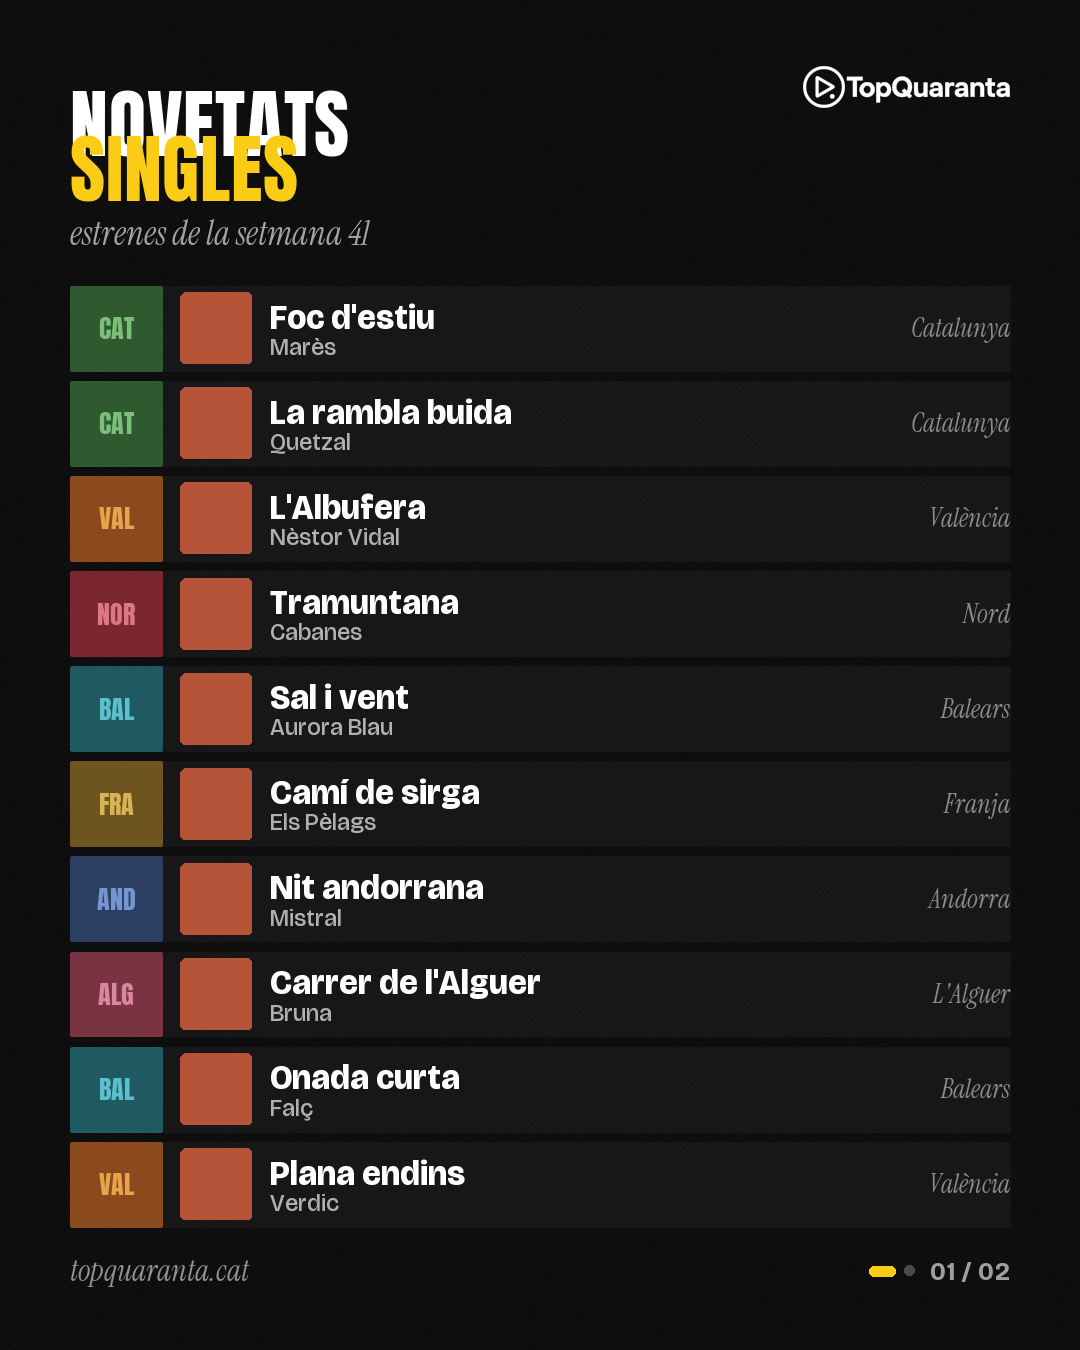
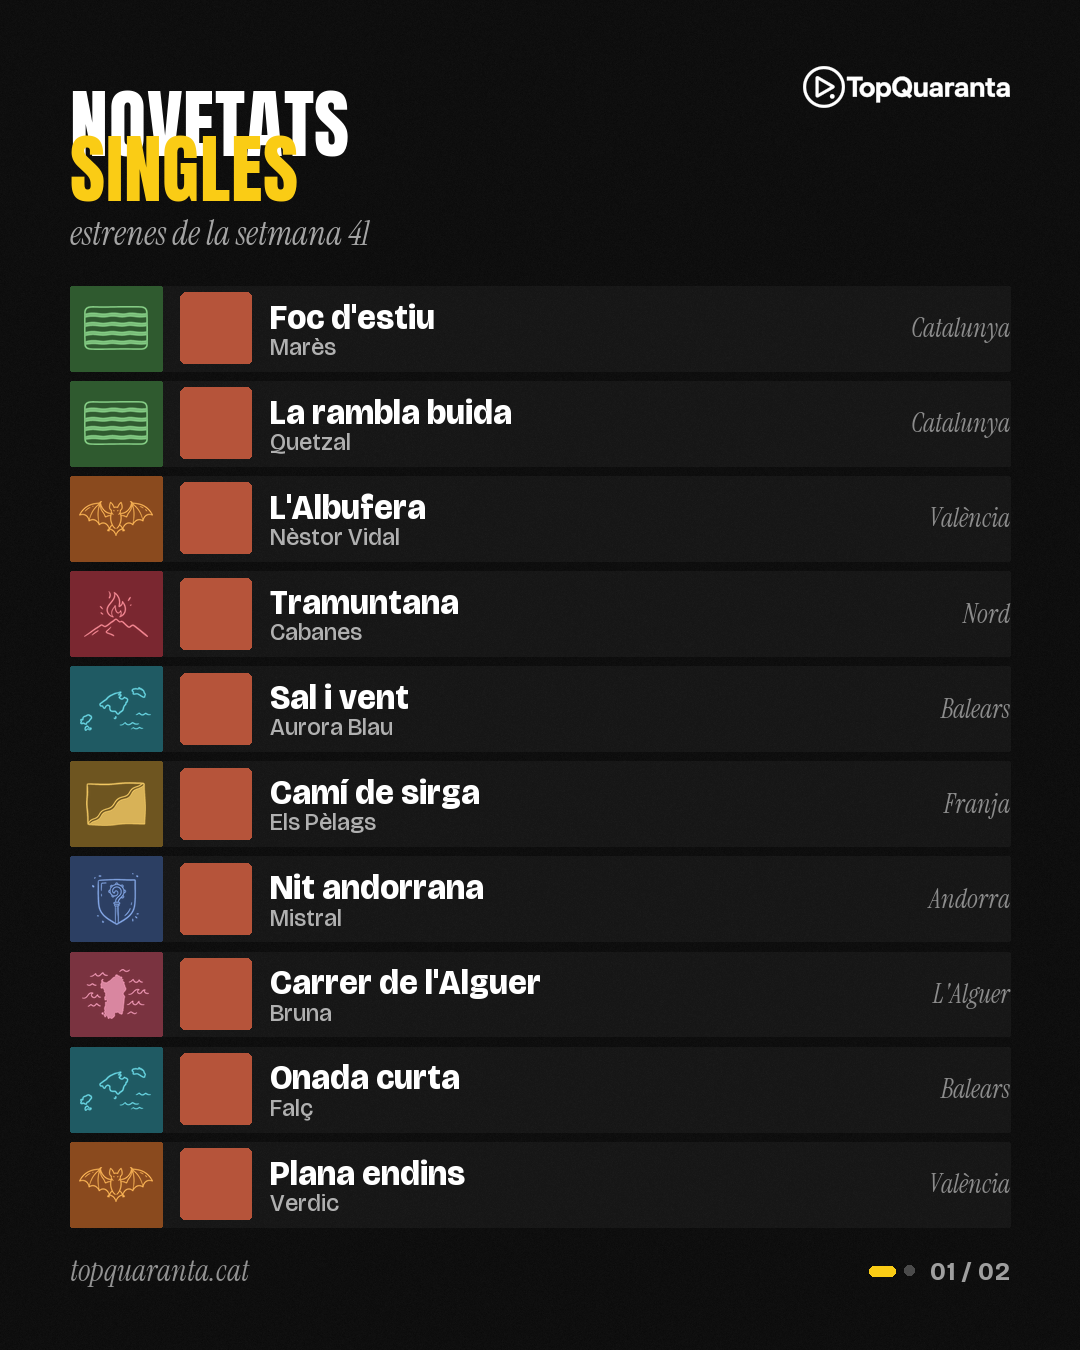
feat(social): singles chip shows territory silhouette (Claude Design handoff) (#200)
The singles-grid chip no longer renders the abbr TEXT (CAT/VAL…); it renders a
hand-drawn territory SILHOUETTE recoloured to territori.accent (per the Claude
Design feed-kit handoff). Chip geometry unchanged (92×85, fons territori.deep);
only the content changes. Other plaques (cover/album/fallback) untouched.

- Assets: social/feed_design/territory_logos/{pri,val,bal,nor,fra,and,alg,
  alt,car}.png (alpha = shape). PIL recolours via alpha-mask + accent fill
  (feed_redesign._terr_logo), so a token recolour follows.
- Optical sizing (not geometric): per-territory optH + aspect in the new
  feed-tokens territory_logos block; width = optH*aspect capped at maxW=74,
  height scales when capped; centred. Verified headless against the design
  (chip 92×85.1, img sizes match incl. VAL's 74×34.8 cap, centred cx46/cy42.5).
- CAT(pri) = the senyera (territory-ppcc.svg art), NEVER the cross.
- ALT/CAR added to the territories palette (deep/accent from the design kit)
  and to _CODE_TO_KEY. PPCC still never a row (blinding intact). Territory
  short name stays at the right (Instrument italic, one line).
- Tests: existing fidelity pins green; new chip pin (accent silhouette present,
  optH-tall, vertically centred — stable proxy for "logo not text").
- Samples: regenerated; added 09_singles_9_territories (all 9 incl ALT/CAR);
  kept 04 (PPCC row) as blinding proof.

Additive; no migration (no model change); flag feed_redisseny_actiu stays
[…]

diff --git a/social/feed_redesign.py b/social/feed_redesign.py
@@ -42,7 +42,9 @@ from social import cover_cache, fonts, svg_assets
 
 logger = logging.getLogger(__name__)
 
-_TOKENS_PATH = Path(__file__).resolve().parent / "feed_design" / "feed-tokens.json"
+_DESIGN_DIR = Path(__file__).resolve().parent / "feed_design"
+_TOKENS_PATH = _DESIGN_DIR / "feed-tokens.json"
+_LOGO_DIR = _DESIGN_DIR / "territory_logos"
 CANVAS_W, CANVAS_H = 1080, 1350
 _GRAIN_SEED = 7
 
@@ -52,6 +54,36 @@ def tokens() -> dict:
     """The exact extracted token table, cached."""
     with open(_TOKENS_PATH, encoding="utf-8") as fh:
         return json.load(fh)
+
+
+def _terr_key(code: str | None) -> str:
+    """Design key (pri/val/…) for a DB territory code; falls back to pri."""
+    return _CODE_TO_KEY.get((code or "").upper(), "pri")
+
+
+@functools.lru_cache(maxsize=16)
+def _logo_base(key: str):
+    """Loaded silhouette PNG (alpha = shape), cached."""
+    return Image.open(_LOGO_DIR / f"{key}.png").convert("RGBA")
+
+
+def _terr_logo(key: str, accent):
+    """Territory silhouette recoloured to `accent`, optically sized for the
+    chip: width = optH*aspect capped at maxW (then height scales down). The
+    PNG's alpha is the mask; the fill is `accent` (so a token recolour
+    follows). Returns an RGBA image, or None if the key has no logo spec."""
+    spec = tokens()["territory_logos"]
+    pt = spec["per_territory"].get(key)
+    if pt is None:
+        return None
+    opt_h, aspect, max_w = pt["optH"], pt["aspect"], spec["maxW"]
+    w, h = opt_h * aspect, float(opt_h)
+    if w > max_w:
+        w, h = float(max_w), max_w / aspect
+    base = _logo_base(key)
+    silh = Image.new("RGBA", base.size, tuple(accent))
+    silh.putalpha(base.getchannel("A"))
+    return silh.resize((max(1, round(w)), max(1, round(h))), Image.LANCZOS)
 
 
 # ── colour parsing ───────────────────────────────────────────────────
@@ -82,6 +114,8 @@ _CODE_TO_KEY = {
     "FRA": "fra",
     "AND": "and",
     "ALG": "alg",
+    "ALT": "alt",
+    "CAR": "car",
 }
 
 
@@ -568,16 +602,26 @@ def build_singles(
             fill=_col(terr["deep"]),
             radius=R["card_radius"],
         )
-        ab = ch["abbr"]
-        _text(
-            img,
-            ch["x"] + ch["w"] / 2,
-            y + ab["y_off"],
-            terr["abbr"],
-            _font("anton", ab["size"]),
-            _col(terr["accent"]),
-            align="center",
-        )
+        # Territory silhouette (replaces the old abbr text), centred in the chip.
+        if ch.get("logo"):
+            logo = _terr_logo(
+                _terr_key(e.get("artista_territori")), _col(terr["accent"])
+            )
+            if logo is not None:
+                lx = ch["x"] + (ch["w"] - logo.width) / 2
+                ly = y + (R["h"] - logo.height) / 2
+                img.alpha_composite(logo, (int(round(lx)), int(round(ly))))
+        elif ch.get("abbr"):  # legacy fallback
+            ab = ch["abbr"]
+            _text(
+                img,
+                ch["x"] + ch["w"] / 2,
+                y + ab["y_off"],
+                terr["abbr"],
+                _font("anton", ab["size"]),
+                _col(terr["accent"]),
+                align="center",
+            )
         th = R["thumb"]
         tile = _cover_or_tile(
             e.get("cover_url"), th["size"], e.get("nom", "?"), terr, simple=True

diff --git a/social/tests/test_feed_redesign.py b/social/tests/test_feed_redesign.py
@@ -285,3 +285,46 @@ def test_singles_blinds_ppcc_row_count(fake_cover):
             tops.append(r)
         prev = r
     assert len(tops) == 4
+
+
+def test_chip_shows_recoloured_silhouette_not_text(fake_cover):
+    """The singles chip contains the territory silhouette in its accent colour,
+    optically sized (height ≈ optH from the fitxa) and vertically centred in the
+    92×85 chip — a stable proxy for 'logo, not abbr text' (the old abbr was
+    top-anchored 26 px text; the silhouette is centred and optH-tall). 'No glyph'
+    isn't asserted directly (hard to measure robustly); the abbr code path is
+    gone — see build_singles."""
+    for code, key in (("CAT", "pri"), ("VAL", "val")):  # val exercises the maxW cap
+        row = [
+            {
+                "nom": "X",
+                "artista_nom": "Y",
+                "artista_territori": code,
+                "cover_url": "x",
+            }
+        ]
+        img = feed_redesign.build_singles(row, 1, 1)
+        a = np.asarray(img.convert("RGB"), np.int16)
+        terr = feed_redesign.territori(code)
+        ar, ag, ab, _ = feed_redesign._col(terr["accent"])
+        R = feed_redesign.tokens()["singles"]["rows"]
+        y0, rh = int(R["y0"]), R["h"]
+        ch = R["chip"]
+        # accent pixels (close to the territory accent) inside the chip box
+        region = a[y0 : y0 + rh, ch["x"] : ch["x"] + ch["w"], :]
+        d = (
+            np.abs(region[..., 0] - ar)
+            + np.abs(region[..., 1] - ag)
+            + np.abs(region[..., 2] - ab)
+        )
+        ys, xs = np.where(d < 40)
+        assert ys.size > 60, f"{code}: expected an accent silhouette in the chip"
+        # optically sized: bbox height ≈ optH (capped case scales down).
+        pt = feed_redesign.tokens()["territory_logos"]
+        spec = pt["per_territory"][key]
+        w = spec["optH"] * spec["aspect"]
+        exp_h = spec["optH"] if w <= pt["maxW"] else pt["maxW"] / spec["aspect"]
+        assert abs((ys.max() - ys.min() + 1) - exp_h) <= 8, f"{code}: height off"
+        # vertically centred in the chip (silhouette, not top-anchored text).
+        centre = (ys.min() + ys.max()) / 2
+        assert abs(centre - rh / 2) <= 6, f"{code}: not vertically centred"

diff --git a/social/feed_design/render_samples.py b/social/feed_design/render_samples.py
@@ -93,6 +93,23 @@ SINGLES_10 = [
 ]
 SINGLES_NOCOVER = [{**s, "cover_url": None} for s in SINGLES[:6]]
 
+# One row per territory — shows ALL 9 chip silhouettes incl. ALT (globus) and
+# CAR (El Carxe). CAT is the senyera (never the cross). No PPCC (blinded).
+SINGLES_9TERR = [
+    {"nom": nom, "artista_nom": art, "artista_territori": code, "cover_url": "x"}
+    for nom, art, code in [
+        ("Senyera endins", "Marès", "CAT"),
+        ("Rat penat", "Nèstor Vidal", "VAL"),
+        ("Entre illes", "Aurora Blau", "BAL"),
+        ("Flama del Canigó", "Cabanes", "CNO"),
+        ("Vent de la Franja", "Els Pèlags", "FRA"),
+        ("Bàcul i muntanya", "Mistral", "AND"),
+        ("Onada de l'Alguer", "Bruna", "ALG"),
+        ("De fora estant", "Globus", "ALT"),
+        ("Plana del Carxe", "Verdic", "CAR"),
+    ]
+]
+
 
 def main():
     orig = cover_cache.fetch
@@ -121,6 +138,10 @@ def main():
         cover_cache.fetch = with_cover(2)
         feed_redesign.build_singles(SINGLES_10, 1, 2, setmana=SET).save(
             OUT / "08_singles_10_noppcc.png"
+        )
+        # One row per territory — all 9 chip silhouettes incl. ALT + CAR.
+        feed_redesign.build_singles(SINGLES_9TERR, 1, 1, setmana=SET).save(
+            OUT / "09_singles_9_territories.png"
         )
     finally:
         cover_cache.fetch = orig

diff --git a/docs/architecture/social.md b/docs/architecture/social.md
@@ -282,6 +282,18 @@ are all real vendored OFL statics. Fidelity floor vs the references is text
 rasterisation (PIL FreeType vs the 3×-downscaled Chrome export) + the
 gaussian-grain approximation; positions/sizes/colours are exact.
 
+**Singles chip = territory silhouette (2026-06-11).** The singles-grid chip no
+longer shows the abbr TEXT (CAT/VAL…); it shows a hand-drawn territory
+**silhouette** (senyera, rat penat, flama del Canigó, …) recoloured to
+`territori.accent`. Assets: `social/feed_design/territory_logos/{key}.png`
+(alpha = shape; recoloured via alpha-mask in `feed_redesign._terr_logo`). The
+chip geometry is unchanged (92×85 `deep`); only its content. Sizing is
+**optical, not geometric** — per-territory `optH` + `aspect` in the
+`territory_logos` token block, width capped at `maxW=74`, centred. `CAT`(pri) =
+the **senyera** (`territory-ppcc.svg` art), never the cross; `ALT`/`CAR` added
+to the palette + code map. The territory short name stays at the right
+(Instrument italic, one line). Values from the Claude Design feed-kit handoff.
+
 ## Static hosting
 
 Meta's IG media-fetcher rejects rendered images served through
